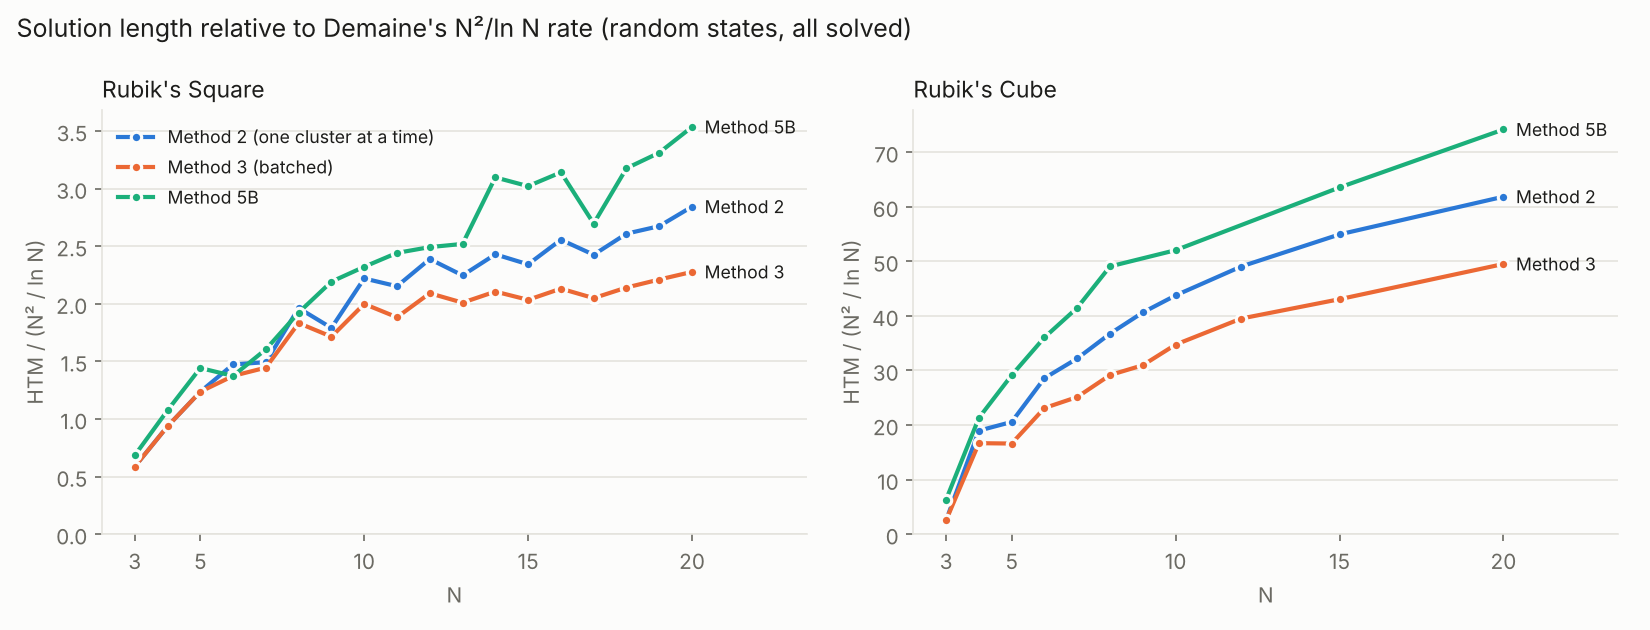
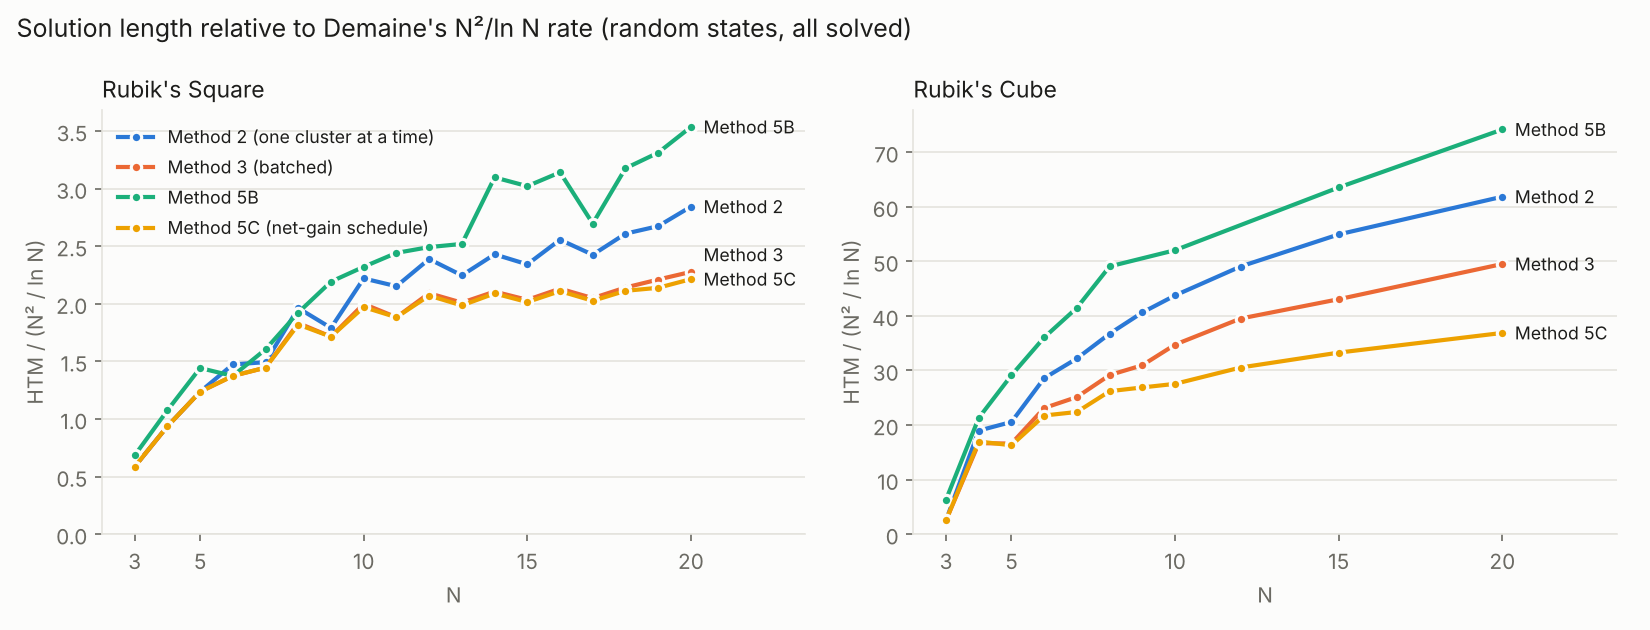
Method 5C results: best on the Cube for N >= 5 and the Square for N >= 9
Same instances as every other method. Cube 20x20x20: 4,925 HTM vs 6,612 (Method 3) and
9,904 (5B); the gap to Method 3 grows with N (-6% at 6, -21% at 10, -23% at 15, -26% at 20).
Square: never longer than Method 3, shorter at most N >= 8.

diff --git a/experiments/plot_methods_1_3.py b/experiments/plot_methods_1_3.py
@@ -17,7 +17,8 @@ import matplotlib.pyplot as plt  # noqa: E402
 ROOT = Path(__file__).resolve().parents[1]
 RES, OUT = ROOT / "docs" / "results", ROOT / "docs" / "figures"
 # categorical slots 1-3 of the validated default palette (light surface #fcfcfb)
-SERIES = {"Method 2 (one cluster at a time)": "#2a78d6", "Method 3 (batched)": "#eb6834", "Method 5B": "#1baf7a"}
+SERIES = {"Method 2 (one cluster at a time)": "#2a78d6", "Method 3 (batched)": "#eb6834", "Method 5B": "#1baf7a",
+          "Method 5C (net-gain schedule)": "#eda100"}
 INK, MUTED, GRID, SURFACE = "#1d1d1b", "#6b6a63", "#e4e3dd", "#fcfcfb"
 
 
@@ -58,13 +59,16 @@ def scaling():
     data = {
         "Rubik's Square": {"Method 2 (one cluster at a time)": rows("m2_reduction_square_random.jsonl"),
                            "Method 3 (batched)": rows("m3_demaine_square_random.jsonl"),
-                           "Method 5B": rows("m5b_square_random.jsonl")},
+                           "Method 5B": rows("m5b_square_random.jsonl"),
+                           "Method 5C (net-gain schedule)": rows("m5c_schedule_square_random.jsonl")},
         "Rubik's Cube": {"Method 2 (one cluster at a time)": rows("m2_reduction_cube_random.jsonl"),
                          "Method 3 (batched)": rows("m3_demaine_cube_random.jsonl"),
-                         "Method 5B": rows("m5b_cube_random.jsonl", "m5b_cube_random_15_20.jsonl")},
+                         "Method 5B": rows("m5b_cube_random.jsonl", "m5b_cube_random_15_20.jsonl"),
+                         "Method 5C (net-gain schedule)": rows("m5c_schedule_cube_random.jsonl")},
     }
     for ax, (title, series) in zip(axes, data.items()):
         style(ax, title, "HTM / (N² / ln N)")
+        ends = []
         for name, rs in series.items():
             pts = norm_by_n(rs)
             if not pts:
@@ -72,7 +76,15 @@ def scaling():
             xs, ys = zip(*pts)
             ax.plot(xs, ys, color=SERIES[name], linewidth=2, marker="o", markersize=5,
                     markeredgecolor=SURFACE, markeredgewidth=1.5, label=name)
-            ax.annotate(name.split(" (")[0], (xs[-1], ys[-1]), xytext=(6, 0), textcoords="offset points",
+            ends.append([ys[-1], xs[-1], ys[-1], name.split(" (")[0]])
+        # direct labels at line ends, pushed apart so they never overlap
+        ends.sort()
+        top = max(e[0] for e in ends)
+        gap = 0.06 * top
+        for i in range(1, len(ends)):
+            ends[i][2] = max(ends[i][2], ends[i - 1][2] + gap)
+        for _, x, y_label, label in ends:
+            ax.annotate(label, (x, y_label), xytext=(6, 0), textcoords="offset points",
                         va="center", color=INK, fontsize=8.5)
         ax.set_xlim(2, 23.5)
         ax.set_xticks([3, 5, 10, 15, 20])

diff --git a/docs/STATUS.md b/docs/STATUS.md
@@ -1,9 +1,13 @@
 # Status (2026-10-22)
 
-Summary: **all six methods are implemented**. On the same random instances:
+Summary: **all six methods are implemented, plus a new one, Method 5C** (net-gain scheduling
+of bulk commutators), which is now the best method for the Cube at every N ≥ 5 and the best (tied with Method 3 at
+N = 9, 11, 14) for the Square from N = 9 up. On the same random instances:
+* **5C:** 4,925 HTM on the 20×20×20 against Method 3's 6,612 (−26%) and 5B's 9,904 (−50%); the
+  gap to Method 3 grows with N (−6% at N = 6, −21% at N = 10, −23% at N = 15).
 * **Square:** Method 1 gives exact optima up to N = 5 and Method 4's per-N models match them.
-  For N = 9–20 (beyond the per-N models), Method 3 (Demaine, batched) is shortest at every N,
-  Method 2 next, both ahead of 5B. Exact God's numbers from full BFS: 6 (N = 3), 10 (N = 4), 12 (N = 5).
+  For N = 9–20 (beyond the per-N models), 5C and Method 3 are shortest (5C ≤ Method 3 at every N),
+  Method 2 next, all ahead of 5B. Exact God's numbers from full BFS: 6 (N = 3), 10 (N = 4), 12 (N = 5).
 * **Cube:** Methods 2 and 3 solve 100% for N = 3–20; Method 3 is 20% shorter than Method 2 at
   N = 20 and 33% shorter than 5B. Method 1 solves 3×3×3 scrambles optimally (91/100 at
   depth 12 within 120 s each); random 3×3×3 states are beyond IDA* with Korf's databases on 4 CPU cores.
@@ -19,47 +23,72 @@ across methods; the tables below average every method over the same instances.
 Rubik's Square, HTM (Square moves are all 180°, so QTM = HTM). n = instances per N.
 Method 4 at W = 4096; 5A as in its section; "—" = not run at that N.
 
-| N | n | M1 (optimal) | M2 | M3 | M4 | 5A | 5B |
-|---|---|---|---|---|---|---|---|
-| 3 | 5 | 4.2 | 4.8 | 4.8 | 4.2 | — | 5.6 |
-| 4 | 5 | 6.4 | 10.8 | 10.8 | 6.4 | 6.4 | 12.4 |
-| 5 | 5 | 8.8 | 19.2 | 19.2 | 8.8 | 9.8 | 22.4 |
-| 6 | 5 | 0/5 in 120 s | 29.6 | 27.6 | 14.0 | 14.8 | 27.6 |
-| 7 | 5 | — | 37.6 | 36.4 | 15.0 | 22.7 (3/5 solved) | 40.4 |
-| 8 | 5 | — | 60.4 | 56.4 | 20.4 | 55.2 | 59.2 |
-| 9 | 5 | — | 66.0 | 63.2 | — | — | 80.8 |
-| 10 | 5 | — | 96.4 | 86.8 | — | — | 100.8 |
-| 11 | 5 | — | 108.6 | 95.0 | — | — | 123.2 |
-| 12 | 5 | — | 138.4 | 121.2 | — | — | 144.4 |
-| 13 | 2 | — | 154.5 | 136.5 | — | — | 166.0 |
-| 14 | 2 | — | 179.0 | 153.0 | — | — | 230.0 |
-| 15 | 2 | — | 185.0 | 165.0 | — | — | 251.0 |
-| 16 | 2 | — | 242.0 | 203.0 | — | — | 290.0 |
-| 17 | 2 | — | 248.5 | 205.5 | — | — | 275.0 |
-| 18 | 2 | — | 290.0 | 244.0 | — | — | 356.0 |
-| 19 | 2 | — | 312.0 | 258.0 | — | — | 406.0 |
-| 20 | 2 | — | 380.0 | 303.0 | — | — | 472.0 |
+| N | n | M1 (optimal) | M2 | M3 | 5C | M4 | 5A | 5B |
+|---|---|---|---|---|---|---|---|---|
+| 3 | 5 | 4.2 | 4.8 | 4.8 | 4.8 | 4.2 | — | 5.6 |
+| 4 | 5 | 6.4 | 10.8 | 10.8 | 10.8 | 6.4 | 6.4 | 12.4 |
+| 5 | 5 | 8.8 | 19.2 | 19.2 | 19.2 | 8.8 | 9.8 | 22.4 |
+| 6 | 5 | 0/5 in 120 s | 29.6 | 27.6 | 27.6 | 14.0 | 14.8 | 27.6 |
+| 7 | 5 | — | 37.6 | 36.4 | 36.4 | 15.0 | 22.7 (3/5 solved) | 40.4 |
+| 8 | 5 | — | 60.4 | 56.4 | 56.0 | 20.4 | 55.2 | 59.2 |
+| 9 | 5 | — | 66.0 | 63.2 | 63.2 | — | — | 80.8 |
+| 10 | 5 | — | 96.4 | 86.8 | 85.6 | — | — | 100.8 |
+| 11 | 5 | — | 108.6 | 95.0 | 95.0 | — | — | 123.2 |
+| 12 | 5 | — | 138.4 | 121.2 | 120.0 | — | — | 144.4 |
+| 13 | 2 | — | 154.5 | 136.5 | 134.5 | — | — | 166.0 |
+| 14 | 2 | — | 179.0 | 153.0 | 153.0 | — | — | 230.0 |
+| 15 | 2 | — | 185.0 | 165.0 | 161.0 | — | — | 251.0 |
+| 16 | 2 | — | 242.0 | 203.0 | 200.0 | — | — | 290.0 |
+| 17 | 2 | — | 248.5 | 205.5 | 204.5 | — | — | 275.0 |
+| 18 | 2 | — | 290.0 | 244.0 | 241.0 | — | — | 356.0 |
+| 19 | 2 | — | 312.0 | 258.0 | 246.0 | — | — | 406.0 |
+| 20 | 2 | — | 380.0 | 303.0 | 297.0 | — | — | 472.0 |
 
-Methods 2 and 3 were also run on 5 states for every N (`docs/results/m*_square_random.jsonl`):
-at N = 20, 379.6 vs 304.0 HTM.
+Methods 2, 3 and 5C were also run on 5 states for every N (`docs/results/m*_square_random.jsonl`):
+at N = 20, 379.6 / 304.0 / 295.6 HTM.
 
 Rubik's Cube, HTM (QTM in brackets), every state solved:
 
-| N | n | M2 | M3 | 5B |
-|---|---|---|---|---|
-| 3 | 2 | 21.0 (31.0) | 21.0 (31.0) | 52.0 (54.5) |
-| 4 | 2 | 219.0 (259.5) | 192.5 (226.5) | 246.0 (249.5) |
-| 5 | 2 | 319.5 (359.0) | 258.0 (284.0) | 452.5 (459.0) |
-| 6 | 2 | 574.5 (654.5) | 464.5 (505.5) | 724.5 (729.5) |
-| 7 | 2 | 811.0 (911.5) | 633.0 (689.5) | 1045.0 (1049.5) |
-| 8 | 2 | 1131.0 (1255.0) | 897.5 (960.0) | 1510.5 (1515.0) |
-| 9 | 2 | 1498.0 (1648.5) | 1141.5 (1217.5) | — |
-| 10 | 2 | 1900.5 (2113.5) | 1509.0 (1603.5) | 2260.5 (2270.5) |
-| 12 | 1 | 2843 (3123) | 2290 (2409) | — |
-| 15 | 1 | 4565 (4985) | 3578 (3767) | 5280 (5292) |
-| 20 | 1 | 8259 (8976) | 6612 (6898) | 9904 (9916) |
+| N | n | M2 | M3 | 5C | 5B |
+|---|---|---|---|---|---|
+| 3 | 2 | 21.0 (31.0) | 21.0 (31.0) | 21.0 (31.0) | 52.0 (54.5) |
+| 4 | 2 | 219.0 (259.5) | 192.5 (226.5) | 196.0 (224.5) | 246.0 (249.5) |
+| 5 | 2 | 319.5 (359.0) | 258.0 (284.0) | **253.0** (281.0) | 452.5 (459.0) |
+| 6 | 2 | 574.5 (654.5) | 464.5 (505.5) | **437.0** (481.5) | 724.5 (729.5) |
+| 7 | 2 | 811.0 (911.5) | 633.0 (689.5) | **564.0** (614.5) | 1045.0 (1049.5) |
+| 8 | 2 | 1131.0 (1255.0) | 897.5 (960.0) | **806.5** (863.0) | 1510.5 (1515.0) |
+| 9 | 2 | 1498.0 (1648.5) | 1141.5 (1217.5) | **991.5** (1056.5) | — |
+| 10 | 2 | 1900.5 (2113.5) | 1509.0 (1603.5) | **1196.5** (1256.5) | 2260.5 (2270.5) |
+| 12 | 1 | 2843 (3123) | 2290 (2409) | **1770** (1861) | — |
+| 15 | 1 | 4565 (4985) | 3578 (3767) | **2765** (2927) | 5280 (5292) |
+| 20 | 1 | 8259 (8976) | 6612 (6898) | **4925** (5188) | 9904 (9916) |
 
-![HTM / (N²/ln N) for Methods 2, 3 and 5B](figures/methods_2_3_scaling.png)
+![HTM / (N²/ln N) for Methods 2, 3, 5B and 5C](figures/methods_2_3_scaling.png)
+
+## Method 5C: net-gain scheduling of bulk commutators — new
+The novel method. Method 3 bulks one commutator type over a block of layers X × Y only when every
+cell helps its cluster; once clusters diverge, blocks shrink to single cells (358 of Method 3's
+385 center rounds on the 20×20×20 fixed a single orbit). 5C chooses each round's block by **net**
+slots fixed per move, cells that do not help included when the block still pays, scores every
+candidate exactly by applying it, discounts setup moves shared with the previous step, and (N ≤ 15)
+looks one step ahead. Everything else is Method 3's, so the gain is the schedule alone.
+
+| Cube N | M3 HTM | 5C HTM | change | 5C bulk rounds (centers) | 5C solve time |
+|---|---|---|---|---|---|
+| 6 | 464.5 | 437.0 | −6% | 22 of 22 | 4 s |
+| 10 | 1509.0 | 1196.5 | −21% | 62 of 73 | 37 s |
+| 15 | 3578 | 2765 | −23% | 142 of 184 | 223 s |
+| 20 | 6612 | 4925 | −26% | 229 of 333 | 158 s (+132 s type bank) |
+
+* The saving grows with N, and HTM / (N²/ln N) grows much more slowly (cube: 21.8 at N = 6 → 36.9 at
+  N = 20, against Method 3's 23.1 → 49.5).
+* Lookahead is worth ~2.5% (20×20×20: 4,794 with it, 4,925 without) for ~5× the time, so it is on
+  only for N ≤ 15 by default (`lookahead=1` forces it).
+* Square: the interior schedule is the shorter of 5C's net-gain schedule and Method 3's, so 5C is
+  never longer than Method 3; it is shorter at most N ≥ 8 (e.g. 246 vs 258 at N = 19).
+* N = 4 has one center orbit and one wing orbit, nothing to batch: 196.0 vs Method 3's 192.5.
+* Not done yet (the planned learned part): a learned cost-to-go in place of the one-step lookahead,
+  and choosing which identical center sticker goes where so orbits need the same next 3-cycle.
 
 ## Method 1: IDA* + pattern databases — implemented
 * **Pattern databases** (Korf): corners 88,179,840 entries (max depth 11 HTM / 14 QTM), two 6-edge

diff --git a/README.md b/README.md
@@ -1,8 +1,9 @@
-# NxN Rubik's — six solvers, one engine
+# NxN Rubik's — seven solvers, one engine
 
 Solvers for the **N×N×1 Rubik's Square** and the **N×N×N Rubik's Cube** for every
 N from 3 to 20, benchmarked on one shared engine. Methods 1–4 are established techniques
-(the course requirement); Methods 5A and 5B are new learned solvers aimed at a paper in the
+(the course requirement); Methods 5A and 5B are new learned solvers, and 5C a new schedule for
+Demaine's parallel algorithm that is the best method at large N, aimed at a paper in the
 style of CayleyPy (NeurIPS 2025). The full spec is the technical basis document
 ([docs/technical_basis.pdf](docs/technical_basis.pdf)); section numbers below refer to it.
 
@@ -10,10 +11,11 @@ style of CayleyPy (NeurIPS 2025). The full spec is the technical basis document
 |---|---|---|---|---|
 | 1 | IDA* + pattern databases | Shree | `rubiks/solvers/m1_idastar` | implemented; optimal on Squares N ≤ 5 and 3×3×3 scrambles (Korf PDBs, parallel IDA*); Square God's numbers 6 / 10 / 12 for N = 3 / 4 / 5 |
 | 2 | Reduction + Kociemba two-phase | Sunaina | `rubiks/solvers/m2_reduction` | implemented; 100% solved on Square and Cube N = 3–20 |
-| 3 | Demaine parallel cluster algorithm | Kashvi | `rubiks/solvers/m3_demaine` | implemented; 100% solved on Square and Cube N = 3–20, shortest of all methods for N ≥ 9 |
+| 3 | Demaine parallel cluster algorithm | Kashvi | `rubiks/solvers/m3_demaine` | implemented; 100% solved on Square and Cube N = 3–20 |
 | 4 | CayleyPy reproduction | Shaurya | `rubiks/solvers/m4_cayleypy` | implemented; per-N Square models N = 3–8 (shortest of the learned methods); 3×3×3 needs GPU training |
 | 5A | Cluster-token transformer, one model for all N | Sharanya | `rubiks/solvers/m5a_tokens` | implemented; small CPU Square model trained, beats 5B at N ≤ 10 |
 | 5B | Learned search inside reduction stages | Gaurav | `rubiks/solvers/m5b_stages` | implemented; 100% solved on Square N = 3–20 and Cube N = 3–20 (solutions still long) |
+| 5C | **New:** net-gain scheduling of bulk commutators | Gaurav | `rubiks/solvers/m5c_schedule` | implemented; best method on the Cube for N ≥ 5 (20×20×20: 4,925 HTM, −26% vs Method 3) and on the Square for N ≥ 9 |
 | — | Engine, checker, beam search, harness | Gaurav | `rubiks/engine`, `rubiks/search`, `rubiks/bench` | implemented, tested |
 
 Each method's folder has a `README.md` with its spec, what was built, and a done-when checklist. Measured results so far: [docs/STATUS.md](docs/STATUS.md).
